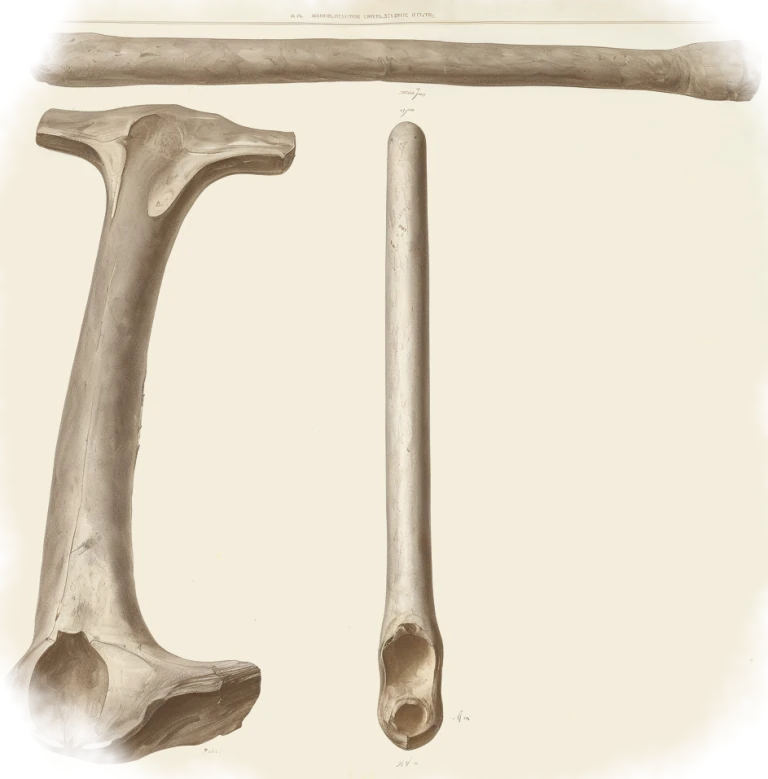
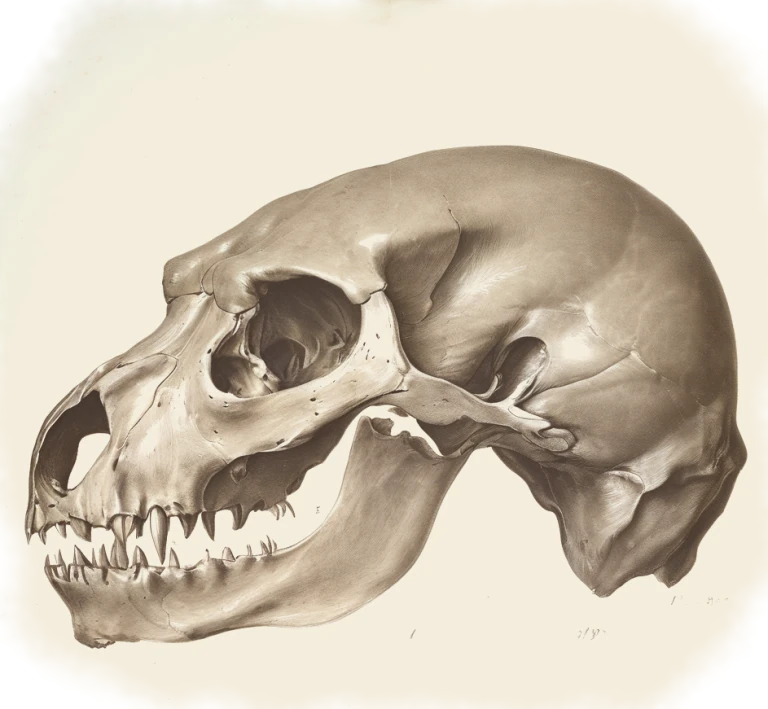
Art: honey-fungus stump and two honey-mushroom tufts; atlas plates redone - river pebbles, small-mammal skull, incised potsherd

diff --git a/tools/artgen/make_prompts.py b/tools/artgen/make_prompts.py
@@ -94,30 +94,52 @@ plates = [
     PL("seed", "a pair of maple samara seed keys, round brown seeds with long papery wings, one large specimen in the middle, a small single seed beside it"),
     PL("snail", "a garden snail with a banded spiral shell, side view, one large specimen in the middle, a small view of the shell from above beside it"),
     PL("beetle", "a ground beetle, glossy dark body, six legs, dorsal view, one large specimen in the middle, a small head and antenna detail beside it"),
-    PL("pebble", "a smooth rounded river pebble with a pale quartz stripe, one large specimen in the middle, a small broken half of a pebble beside it"),
-    PL("bone", "a weathered mammal femur bone, long shaft with two rounded knobbed joint ends, one large specimen in the middle, a small view of the joint end beside it"),
+    PL("pebble", "mineralogy plate, three river pebbles of different shapes with white quartz veins and mineral bands, seen from several sides, grey and ochre stone"),
+    PL("bone", "zoology plate, tiny skull of a field mouse, long flat snout, two large incisor teeth, lower jaw bone, side view, one skull in the middle, two small jaw bones beside it"),
     PL("shell", "an empty land snail shell, round glossy whorls, aperture with a thin lip, three-quarter view, one large specimen in the middle, a small view from above beside it"),
-    PL("potsherd", "a broken fragment of ancient pottery, jagged curved edges, painted band pattern, one large shard in the middle, a small shard beside it"),
+    PL("potsherd", "a curved clay pot shard with a thick rough broken edge, orange terracotta, incised herringbone lines and a row of dots, shown from outside and in profile, museum catalogue drawing"),
     PL("ammonite", "a fossil ammonite, ribbed spiral shell, one large specimen in the middle, a small cross-section of the spiral beside it"),
 ]
-PLATE_NEG = {"plate.seed": "butterfly, moth, insect, wings of an insect, leaf, feather, cone, needles", "plate.pebble": "cross, relief, carving, engraving, slab, platform, base",
-             "plate.bone": "skull, head, teeth, jaw, face, skeleton, vase, column, funnel, tool, mushroom, branch, wood", "plate.shell": "animal, body, tentacles, nautilus, fossil, ammonite",
-             "plate.potsherd": "whole pot, vase, jar, bowl, plate, complete vessel, handle"}
+PLATE_NEG = {"plate.seed": "butterfly, moth, insect, wings of an insect, leaf, feather, cone, needles", "plate.pebble": "cross, relief, carving, engraving, slab, platform, base, egg, bird, eggs, nest, gem, crystal",
+             "plate.bone": "human skull, big round skull, brain case, ape, long bone, femur, skeleton, bird, vase, column, funnel, tool, mushroom, branch, wood, horn", "plate.shell": "animal, body, tentacles, nautilus, fossil, ammonite",
+             "plate.potsherd": "whole pot, vase, jar, bowl, plate, dish, disc, complete vessel, handle, parchment, paper, scroll, map, manuscript, leaf, tiles, mosaic"}
 PLATE_SHIFT = {k: 40 for k in PLATE_NEG}
-PLATE_SHIFT.update({"plate.seed": 80, "plate.bone": 80})  # fresh seeds after a prompt rewrite; the first round's picks stay valid by seed
+PLATE_SHIFT.update({"plate.seed": 80})  # fresh seeds after a prompt rewrite; the first round's picks stay valid by seed
+PLATE_SHIFT.update({"plate.pebble": 120, "plate.bone": 280, "plate.potsherd": 220})  # ART-3: new seeds for the redo of the three weak plates
 for _i, _a in enumerate(plates):
     _a["seedOffset"] = _i * 100 + PLATE_SHIFT.get(_a["id"], 0)
     if _a["id"] in PLATE_NEG:
         _a["negExtra"] = PLATE_NEG[_a["id"]]
         _a["candidates"] = 8
-PLATE_CROP = {"plate.bone": [0.04, 0.015, 0.96, 0.95], "plate.beetle": [0.05, 0.02, 0.95, 0.94], "plate.ammonite": [0.03, 0.03, 0.99, 0.95]}
+PLATE_CROP = {"plate.bone": [0.04, 0.03, 0.96, 0.88], "plate.potsherd": [0.05, 0.05, 0.95, 0.90], "plate.beetle": [0.05, 0.02, 0.95, 0.94], "plate.ammonite": [0.03, 0.03, 0.99, 0.95]}
 for _a in plates:
     if _a["id"] in PLATE_CROP:
         _a["crop"] = PLATE_CROP[_a["id"]]
-PLATE_PICKS = {"plate.seed": 5303, "plate.bone": 5780, "plate.acorn": 5003, "plate.leaf": 5101, "plate.twig": 5205, "plate.snail": 5402, "plate.beetle": 5501, "plate.pebble": 5644, "plate.shell": 5847, "plate.potsherd": 5944, "plate.ammonite": 6001}
+PLATE_PICKS = {"plate.seed": 5303, "plate.bone": 5883, "plate.acorn": 5003, "plate.leaf": 5101, "plate.twig": 5205, "plate.snail": 5402, "plate.beetle": 5501, "plate.pebble": 5721, "plate.shell": 5847, "plate.potsherd": 6127, "plate.ammonite": 6001}
 for _a in plates:
-    if _a["id"] in PLATE_PICKS:
+    if PLATE_PICKS.get(_a["id"]) is not None:
         _a["picked"] = PLATE_PICKS[_a["id"]]
+
+# ART-3: the honey-fungus rival (old stump + two honey-fungus tufts) and a pine samara. Own set so its styles may allow moss / clusters.
+rival = [
+    dict(id="decor.stump.1", group="decor", type="stump", style="stump", anchor="bottommid", worldSize=70, height=256, seedOffset=400,
+         negExtra="forest, trees, landscape, background scenery, table, soil, ground, pedestal",
+         subject="an old sawn tree stump covered in green moss, flat top with growth rings, weathered bark, gnarled roots spreading at the base, side view"),
+    dict(id="mushroom.honey.1", group="mushroom", type="honey", style="tuft", anchor="bottom", worldSize=50, height=320, seedOffset=100,
+         subject="a tuft of honey fungus Armillaria mellea, honey-brown caps with dark scales, pale gills, ring on the stem, stems fused at the base, side view"),
+    dict(id="mushroom.honey.2", group="mushroom", type="honey", style="tuft", anchor="bottom", worldSize=50, height=320, seedOffset=200,
+         subject="a young bunch of honey mushrooms, rounded honey-yellow scaly caps, slender stems with a ring, clustered and joined at the base, side view"),
+    # decor.seed.3 (Scots pine samara) was tried with 3 prompt rounds x 8 seeds: SDXL draws fans/oars/pods, never a seed with one wing -> dropped.
+]
+
+HOLES = {"holes": True, "hole_dist": 20, "hole_area": 0.0015}  # paper enclosed between stems / roots becomes transparent
+RIVAL_PICKS = {"decor.stump.1": (6405, {**HOLES, "hole_dist": 16, "tol": 28, "soft": 30, "basecut": 0.04}),
+               "mushroom.honey.1": (6104, {**HOLES, "basecut": 0.12}), "mushroom.honey.2": (6200, HOLES)}
+for _a in rival:
+    if _a["id"] in RIVAL_PICKS:
+        _a["picked"] = RIVAL_PICKS[_a["id"]][0]
+        if RIVAL_PICKS[_a["id"]][1]:
+            _a["cut"] = RIVAL_PICKS[_a["id"]][1]
 
 data = {
     "version": 1,
@@ -137,6 +159,14 @@ data = {
             "suffix": "19th century naturalist atlas plate, fine sepia ink linework, cross-hatching, soft watercolor wash, muted earthy colors, plain cream paper",
             "negative": "text, letters, words, numbers, captions, labels, signature, watermark, border, frame, photograph, 3d render, cartoon, anime, oversaturated, several specimens, grid, collage, ground, soil, hands",
         },
+        "stump": {
+            "suffix": "vintage naturalist illustration, fine sepia pen and ink outlines, cross-hatching, delicate watercolor wash, muted colors, single specimen, pure white background",
+            "negative": "beige, cream background, gradient, several objects, splatter, stains, grass, flowers, mushrooms, tree trunk, branches, leaves, shadow, text, signature, watermark, border, frame, page, photograph, 3d render, cropped",
+        },
+        "tuft": {
+            "suffix": "vintage naturalist illustration, fine sepia pen and ink outlines, cross-hatching, delicate watercolor wash, muted colors, bare stem base, pure white background",
+            "negative": "beige, cream background, gradient, grass, moss, fern, leaves, twigs, insects, splatter, stains, ground, soil, shadow, wood, log, bark, text, signature, watermark, border, frame, page, photograph, 3d render, cropped",
+        },
         "plate": {
             "suffix": "19th century naturalist atlas plate, scientific cross-section illustration, fine sepia ink linework, cross-hatching, delicate watercolor wash, muted earthy colors, aged paper",
             "negative": "photograph, photo, 3d render, text, letters, numbers, signature, watermark, caption, label, border, frame, blurry, oversaturated, neon, cartoon, anime",
@@ -145,6 +175,7 @@ data = {
     "sets": {
         "mushrooms": {"style": "specimen", "width": 1024, "height": 1024, "seedBase": 1000, "assets": mushrooms},
         "decor": {"style": "decor", "width": 1024, "height": 1024, "seedBase": 2000, "candidates": 4, "assets": decor},
+        "rival": {"style": "decor", "width": 1024, "height": 1024, "seedBase": 6000, "candidates": 8, "assets": rival},
         "plates": {"style": "naturalist", "width": 1024, "height": 1024, "seedBase": 5000, "candidates": 6, "assets": plates},
         "frontispiece": {"style": "plate", "width": 1280, "height": 832, "seedBase": 3000, "candidates": 8, "assets": [dict(
             id="plate.frontispiece", group="plate", type="frontispiece", file="assets/art/frontispiece.webp", target=[1400, None], crop=[0.03, 0.025, 0.97, 0.925], picked=3004, cut=dict(gamma=1.35, sat=0.95, vig0=0.86, vig1=1.03),

diff --git a/tools/artgen/cutout.py b/tools/artgen/cutout.py
@@ -25,7 +25,7 @@ ISNET = TOOLS / "models" / "isnet-general-use.onnx"
 PAPER = np.array([0xEF, 0xE4, 0xCC], np.float32) / 255
 INK = np.array([0x3A, 0x2A, 0x1E], np.float32) / 255
 SOIL = (0x3F, 0x2C, 0x20)
-DEFAULTS = dict(tol=20.0, soft=40.0, sat=0.85, gamma=1.0, speck=0.06, pad=3, sharpen=0.5, holes=False, basecut=0.0, fade=0.06, matte=True, near=10)
+DEFAULTS = dict(tol=20.0, soft=40.0, sat=0.85, gamma=1.0, speck=0.06, pad=3, sharpen=0.5, holes=False, basecut=0.0, fade=0.06, hole_dist=7.0, hole_area=0.01, matte=True, near=10)
 
 
 def border_color(a, ring=6):
@@ -129,11 +129,11 @@ def cut(rgb, o, matte=None):
     core = np.isin(lab, edge)
     bgreg = ndi.binary_dilation(core, iterations=2) & cand
     if o["holes"]:  # enclosed, near-pure paper regions (loops of twigs, gaps between legs)
-        pure = dist < 7
+        pure = dist < o["hole_dist"]  # per asset: tufts need a looser purity and smaller areas (paper between stems)
         lab2, n2 = ndi.label(pure & ~bgreg)
         if n2:
             areas = ndi.sum(np.ones_like(lab2), lab2, index=np.arange(1, n2 + 1))
-            keep = np.where(areas > 0.01 * rgb.shape[0] * rgb.shape[1])[0] + 1
+            keep = np.where(areas > o["hole_area"] * rgb.shape[0] * rgb.shape[1])[0] + 1
             bgreg |= np.isin(lab2, keep)
     zone = ndi.binary_dilation(bgreg, iterations=3)
     ramp = np.clip((dist - o["tol"]) / o["soft"], 0, 1)
@@ -196,6 +196,9 @@ def anchor_of(alpha, mode):
         return int(round((xs * alpha).sum() / s)), int(round((ys * alpha).sum() / s))
     rows = np.where((alpha > 0.3).any(1))[0]
     bottom = rows.max()
+    if mode == "bottommid":  # symmetric flare (stump roots): horizontal middle of the whole silhouette, ground line at the lowest row
+        cols_ = np.where((alpha > 0.3).any(0))[0]
+        return int(round((cols_.min() + cols_.max()) / 2)), int(bottom + 1)
     band = alpha[max(rows.min(), bottom - max(2, int(0.06 * (bottom - rows.min())))): bottom + 1]
     cols = np.arange(w)
     cx = (band.sum(0) * cols).sum() / band.sum()

diff --git a/tools/artgen/generate.py b/tools/artgen/generate.py
@@ -29,7 +29,7 @@ def seeds_for(cfg, st, asset, picked_only, n_override):
 
 
 def build_prompt(cfg, st, asset):
-    style = cfg["styles"][st["style"]]
+    style = cfg["styles"][asset.get("style") or st["style"]]  # an asset may pick its own style (rival set)
     negative = style["negative"]
     if asset.get("negExtra"):  # per-asset exclusions go first: CLIP only reads the first 77 tokens
         negative = f"{asset['negExtra']}, {negative}"

diff --git a/tools/artgen/README.md b/tools/artgen/README.md
@@ -99,5 +99,13 @@ Picks live in `make_prompts.py` (`PLATE_PICKS`, `PLATE_CROP`, `PLATE_SHIFT` = fr
 ## Known gaps
 
 * `decor.seed.1`: SDXL turns "winged seed" into insects/feathers; the pick (2772) is a leaf-like winged seed, not a pine samara. The `seed` plate shows a Scots pine twig with a cone and loose seeds instead.
-* Plate subjects ignore "small detail view beside it" most of the time (acorn, pine, bone have one); the `bone` plate is long bones, not a vole's.
+* Plate subjects ignore "small detail view beside it" most of the time (acorn, pine have one). ART-3 redo: `pebble` (several river pebbles with bands/veins) and `potsherd` (terracotta shard with incised lines and dots) now read right; `bone` is a small-mammal skull with lower jaw and incisors (SDXL keeps drawing human skulls or live mice for "vole"; seed 5883 of the first round was the only convincing one).
+* Pine samara (`decor.seed.3`) was tried in three prompt rounds (24 seeds): SDXL draws fans, oars, pods and pine twigs, never a seed with one wing. Not delivered.
 * Trees (stretch goal) were not generated.
+
+## Rival set (`--set rival`, ART-3)
+
+`decor.stump.1` (anchor `bottommid` = horizontal middle of the silhouette at the lowest row, worldSize 70 = height), `mushroom.honey.1/2` (anchor `bottom`, worldSize 50).
+An asset may carry its own `style` (generate.py): the rival styles `stump` / `tuft` drop the moss / ground / cluster negatives of `decor` / `specimen`.
+Cut option `holes` with `hole_dist` (colour distance, default 7) and `hole_area` (fraction of the image, default 0.01) removes paper that is enclosed between stems and roots;
+tufts need `hole_dist` ~20 and `hole_area` ~0.0015, otherwise a cream backing shows on dark soil.
